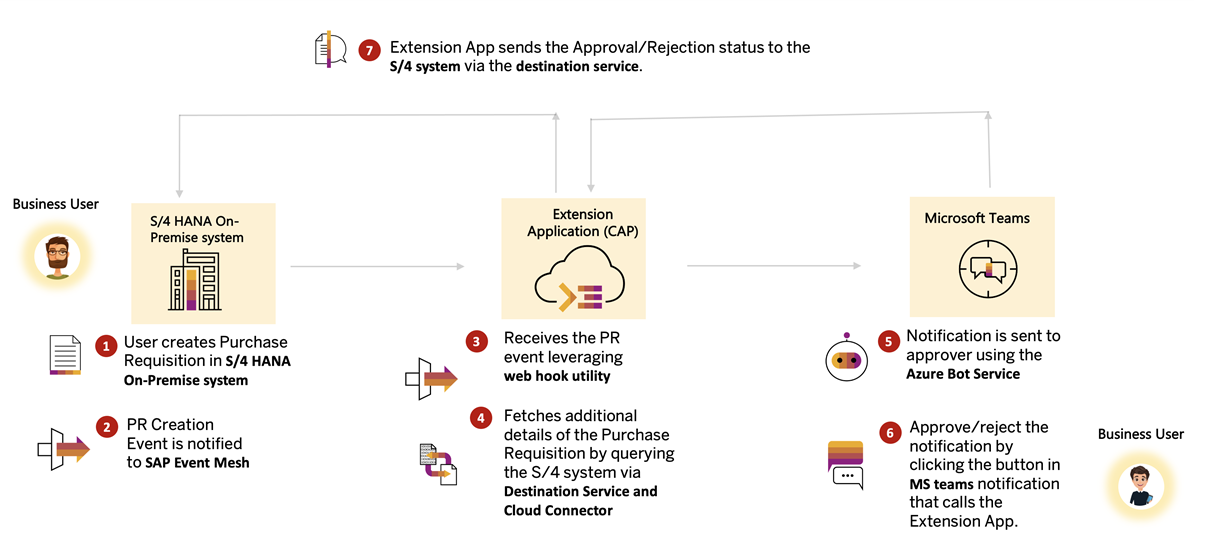
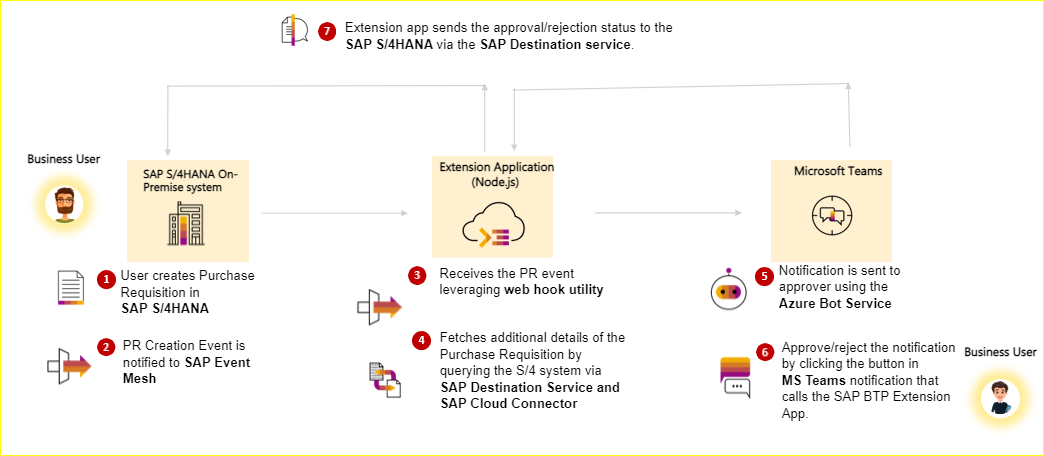
update

diff --git a/tutorial/Step3-Configure-SAP-S4HANA/README.md b/tutorial/Step3-Configure-SAP-S4HANA/README.md
@@ -9,7 +9,7 @@ In this step, you will create a flexible workflow, which will send a request(Wor
 
 >Note: This step is optional if you already have an existing workflow running in your SAP S/4HANA system. Ensure that you deactivate other workflows before creating and activating this new workflow.
 
-1. Open the Fiori application - **Manage Workflow for Purchase Requisitions**.<br>
+1. Open the Fiori application - **Manage Workflow for purchase requisitions**.<br>
     >Note: Ensure the Role - SAP_BR_BPC_EXPERT is assigned to the user to have the above application accessible.<br>
     **Help**: https://fioriappslibrary.hana.ondemand.com/sap/fix/externalViewer/#/detail/Apps('F2705')/S20OP
 
@@ -29,7 +29,7 @@ In this step, you will create a flexible workflow, which will send a request(Wor
 6. Add the approval step by clicking the **Add** button in the **Step Sequence** section.<br>
 ![Approval Add step](images/s4/5.png)
 
-7. Select the step type **Release of Purchase Requisition Item** from the dropdown.<br>
+7. Select the step type **Release of purchase requisition Item** from the dropdown.<br>
 ![Step type Approval](images/s4/6.png)
 
 8. Go to the **Recipients** section, select the dropdown value **User** for **Assignment By**, and provide the user id in the **User** field. <br> 
@@ -70,10 +70,10 @@ You have successfully created a purchase requisition, which created a workflow i
 
 ### Background Job to send the Workflow Instances to the SAP Event Mesh
 
-In this step, you will create the background job to send the workflow instances(workitems) to the SAP Event Mesh. After this step, the event mesh subscription will forward the workitems to the Teams application for approval.
+In this step, you will create the background job to send the workflow instances(workitems) to the SAP Event Mesh. After this step, the configured webhook in SAP Event Mesh will forward the workitems to the MS Teams application for approval.
 
 
-#### <ins>Create the service key for your Event Mesh<ins>
+#### <ins>Create the service key for your SAP Event Mesh<ins>
 In this sub-step, you will create a service key for your SAP Event Mesh instance, which has the OAuth client credentials and the rest service URL to communicate with the SAP Event Mesh.
 
 17. Go to your SAP BTP subaccount and select **Instances and Subscriptions**.<br>
@@ -92,7 +92,7 @@ In this sub-step, you will create a service key for your SAP Event Mesh instance
 ![Note the service key details](./images/s4/15.png)
 
 #### <ins>Create the Destination<ins>
-In this sub-step, you will create a destination to maintain the rest URL of the event mesh to connect and send messages.
+In this sub-step, you will create a destination to maintain the rest URL of the SAP Event Mesh to connect and send messages.
 
 22. Goto **SM59** transaction and click **create** icon as shown in the below screenshot to create a new destination.<br>
 ![Destination](./images/s4/16.png)
@@ -130,7 +130,7 @@ In this sub-step, you will configure the OAuth client, which will be used by the
 ![Save OAuth](./images/s4/26.png)
 
 #### <ins>Import ABAP Git Project to run<ins>
-Use the below git URL (ABAP branch) to import the ABAP Class and Report, which contains the code to send the Workflow instances(workitems) to Event Mesh.
+Use the below git URL (ABAP branch) to import the ABAP Class and Report, which contains the code to send the Workflow instances(workitems) to SAP Event Mesh.
 
 33. Open **SE38** and execute the program **ZABAPGIT_STANDALONE**.<br>
     >Note: If the above program is not there in the system, follow the [Install ABAP Git](https://docs.abapgit.org/guide-install.html) documentation.
@@ -147,7 +147,7 @@ Use the below git URL (ABAP branch) to import the ABAP Class and Report, which c
     
 
 #### <ins>Understanding the Code<ins>
-Now that you have imported the code to push the workitems to the Event Mesh. Let's understand how it works.
+Now that you have imported the code to push the workitems to the SAP Event Mesh. Let's understand how it works.
 
 37. After completing the **Step 36**, you will have a report **ZWFCUSEMSEND_TEAMSINT** and a class **zcl_wfcusemsend_teamsint** created in your SAP S/4HANA system.<br>
 
@@ -157,17 +157,17 @@ Now that you have imported the code to push the workitems to the Event Mesh. Let
 39. Inside the method: **RUN_EM_JOB**, the private method: **GET_DELTA_WORKFLOW_INSTANCES** will be called to fetch all the workflow instances (workitems) that were created. The task **TS02000714** is from **Step 15**.<br>
 ![Task Fetch](./images/s4/34.png)
 
-40. After the execution of the method: **GET_DELTA_WORKFLOW_INSTANCES**, the method: **CONNECT_TO_EM** will create the HTTP connection instance to the Event Mesh, which is well explained using the comments in the code.<br>
+40. After the execution of the method: **GET_DELTA_WORKFLOW_INSTANCES**, the method: **CONNECT_TO_EM** will create the HTTP connection instance to the SAP Event Mesh, which is well explained using the comments in the code.<br>
 ![Execution](./images/s4/36.png)
-You will also maintain the URI for the Event mesh in the **CONNECT_TO_EM** method as shown below:<br>
+You will also maintain the URI for the SAP Event mesh in the **CONNECT_TO_EM** method as shown below:<br>
 ![Execution](./images/s4/52.png)
 
-41. Then the **SEND_WORKITEM_TO_EM** method will send the Purchase Requisition workitem to the Event Mesh.<br>
+41. Then the **SEND_WORKITEM_TO_EM** method will send the purchase requisition workitem to the SAP Event Mesh.<br>
 ![Constructor](./images/s4/35.png)
     >**Note**: The Destination, OAuth Profile & OAuth Configuration are maintained in the **Contructor** method.
 
 #### <ins>Background Job Creation<ins>
-In this step, you will automate the report from **Step 37** to run in the background every minute to send the newly created workitems to the Event Mesh.
+In this step, you will automate the report from **Step 37** to run in the background every minute to send the newly created workitems to the SAP Event Mesh.
 
 42. Open the Transaction **SM36** and click **Job Wizard** to create a new background job.<br>
 ![SM36](./images/s4/37.png)

diff --git a/tutorial/Step2-Configure-Azure/README.md b/tutorial/Step2-Configure-Azure/README.md
@@ -50,7 +50,7 @@ Now that the trust is established between Azure Active Directory(productive or t
 
 ## 3. Create Group and Test Users in Azure AD
 
-## 3.1 Create groups in Azure AD
+### 3.1 Create groups in Azure AD
 Login to Azure Portal.Go to Default Directory and click on Groups - New Group.
 Create a new security group with the name s4businessusergrp.</br>
 ![plot](./images/azure-groups.png)
@@ -60,14 +60,14 @@ All users supposed to use the new extension application have to be assigned to t
 The Object ID of this user group will later be mapped to a role collection in SAP BTP. So, before you move on, please note down the Object ID from the Azure Portal. for creating a new role collection in overview section of SAP BTP Trust Configuration.
 The group assignment of your Active Directory users will be provided to SAP BTP using the Groups claim of your SAML configuration. 
 
-## 3.2 Create users in Azure
+### 3.2 Create users in Azure
 Go to Default Directory and click on Users - New User, as shown below.
 ![plot](./images/azure-users.png)
 
 Ensure the email id is updated for the newly created user. This field is important for principal propogation and is required when receiving the events from SAP S/4HANA.The same ID will be configured for the named user in SAP S/4HANA.
 ![plot](./images/useremail.png)
 
-## 3.3 Assign the users to the group
+### 3.3 Assign the users to the group
 Select the group and add the list of users.
 ![plot](./images/user-group-assignment.png)
 
@@ -112,32 +112,32 @@ Please ensure you read this blog post to understand each of the configuration de
 Before you continue, open this blog post [Get your Microsoft Azure settings ready](https://blogs.sap.com/2022/02/28/sap-ms-teams-7-get-your-microsoft-azure-settings-ready/)
 
 
-6.1 Create new app registration for the MS Teams extension application as below.
+### 6.1 Create new app registration for the MS Teams extension application as below.
 ![plot](./images/newappcreation.png)
 
-6.2 Update the Support account types to "Accounts in any organizational directory(Any Azure AD directory - Multitenant)
+### 6.2 Update the Support account types to "Accounts in any organizational directory(Any Azure AD directory - Multitenant)
 
-6.3 Update the Redirect URI. Select Web and update the URL as https://localhost for now.
+### 6.3 Update the Redirect URI. Select Web and update the URL as https://localhost for now.
 
-6.4 Note down the Application Client ID and Directory(Tenant ID) of the app registration.
+### 6.4 Note down the Application Client ID and Directory(Tenant ID) of the app registration.
 ![plot](./images/appregistrationdetails.png)
 
-6.5 Create new Client Secret and Value and note down the Client Secret Value
+### 6.5 Create new Client Secret and Value and note down the Client Secret Value
 ![plot](./images/clientsecret.png)
 
-6.6 Expose an API by clicking on Set in the sub-menu. Follow the instructions and explanations for how to form this Application ID URI from Blog Post - Steps 4,5,6, and 7.
+### 6.6 Expose an API by clicking on Set in the sub-menu. Follow the instructions and explanations for how to form this Application ID URI from Blog Post - Steps 4,5,6, and 7.
 
 Your configuration should look like below 
 ![plot](./images/exposeapi.png)
 Note: You will have to change the Application ID URI. 
 
-6.7 Click on Authentication in the sub-menu and configure the Redirect URIs for app registration and update the tokens that you would like to be issued by the authorization endpoint as below. Refer to Steps 8 and 9 from Blog Post.
+### 6.7 Click on Authentication in the sub-menu and configure the Redirect URIs for app registration and update the tokens that you would like to be issued by the authorization endpoint as below. Refer to Steps 8 and 9 from Blog Post.
 Your configuration should have 2 URLs configured as shown below 
 ![plot](./images/authentication.png)
 
 You will also activate the Access tokens and ID tokens. 
 
-6.8 Next will be to configure the Microsoft Graph API Permissions. Go through Steps 10 & 11 in the blog post for more details. 
+### 6.8 Next will be to configure the Microsoft Graph API Permissions. Go through Steps 10 & 11 in the blog post for more details. 
 
 Click on Add permission and select Microsoft Graph.
 ![plot](./images/addpermission.png)
@@ -149,7 +149,7 @@ Please follow the table in the blog post.
 Post following the steps, your configurations should look as below.
 ![plot](./images/grantadmin.png)
 
-6.9 Following the steps of 'Enable the SAP BTP integration for your application' from the blog post.
+### 6.9 Following the steps of 'Enable the SAP BTP integration for your application' from the blog post.
 ![plot](./images/entapp-api.png)
 
 Select expose an API and configure the client, as shown below. 
@@ -190,7 +190,7 @@ Note down the container name and the connection string from the configuration. T
 ![plot](./images/containername.png)
 ![plot](./images/accesskeys.png)
 
-## 8. Login to MS Teams to check user 
+## 9. Login to MS Teams to check user 
 
 With the test user, you created, login to [Microsoft Teams](https://teams.microsoft.com/). You should be able to see the below screen 
 ![plot](./images/teamslogin.png)

diff --git a/tutorial/Step4-Configure-Cloud-Connector/README.md b/tutorial/Step4-Configure-Cloud-Connector/README.md
@@ -1,4 +1,4 @@
-# Connect SAP S/4HANA using SAP BTP Connectivity Service.
+# Connect SAP S/4HANA using SAP BTP Connectivity Service
 
 ## Solution Architecture
 
